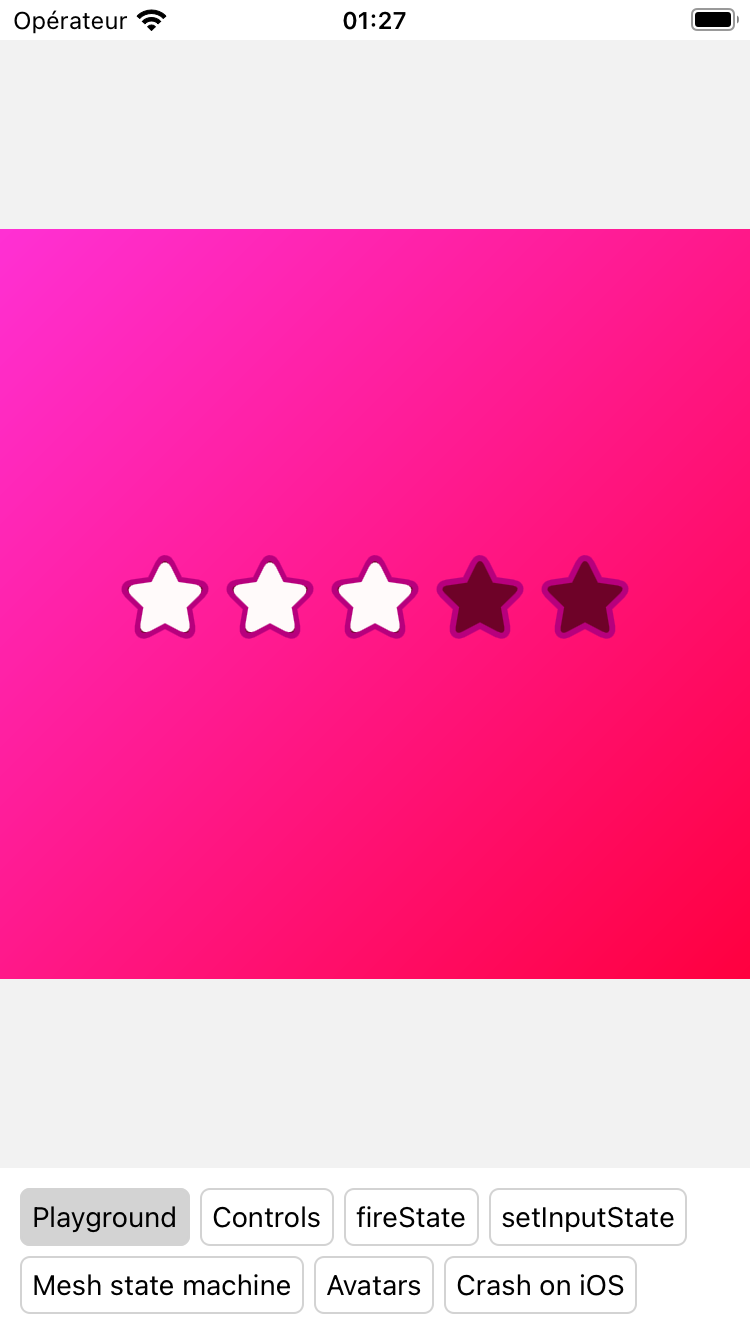
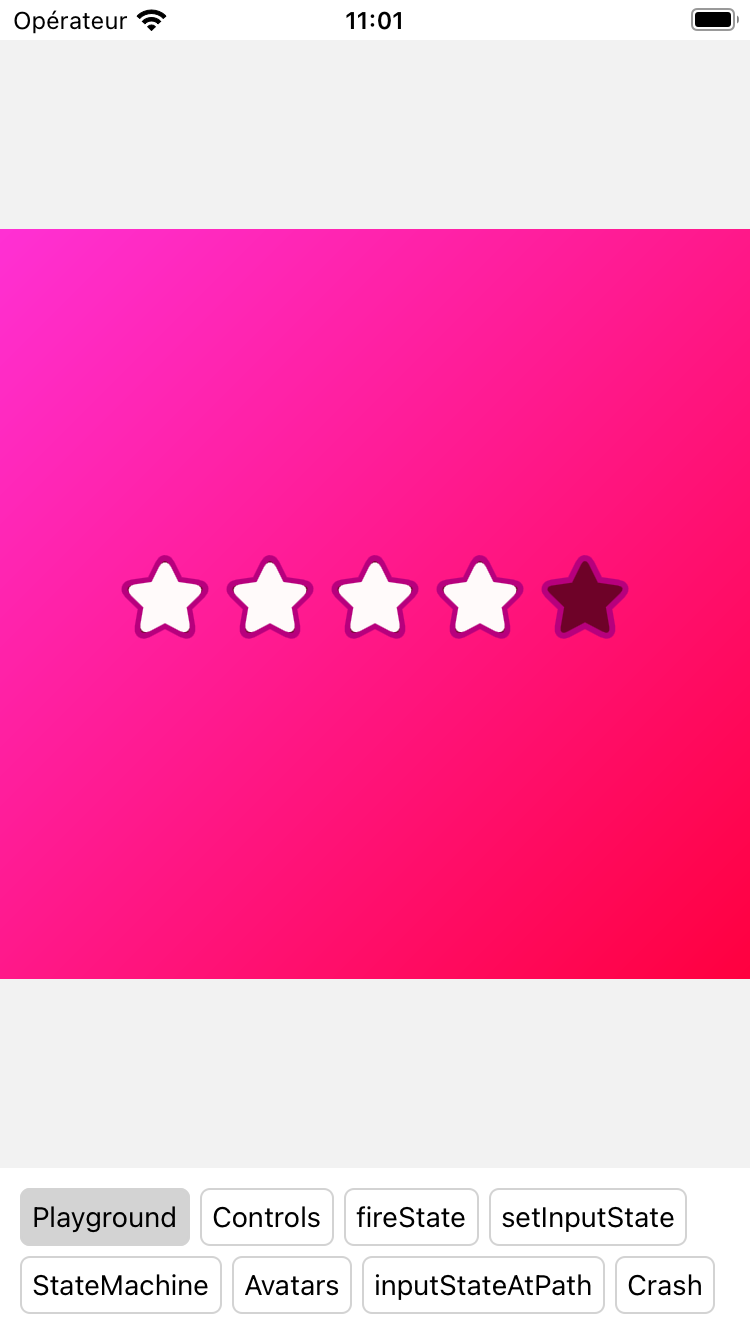
✨ Add setInputStateAtPath example

Changed region(s): [[0.0307, 0.922, 0.9507, 0.9835], [0.5827, 0.3996, 0.7053, 0.4918], [0.46, 0.0, 0.552, 0.0307]]

diff --git a/app/example6.tsx b/app/example6.tsx
@@ -1,95 +1,87 @@
-import * as React from "react";
-import { useRef } from "react";
-
-import { StyleSheet } from "react-native";
-import { TextInput } from "react-native-gesture-handler";
-import {
-  Alignment,
-  Fit,
-  RNRiveError,
-  RNRiveErrorType,
-  RiveRef,
-} from "rive-react-native";
-
 import { RiveAnimation } from "@/components/RiveAnimation";
+import * as React from "react";
+import { View } from "react-native";
+import { Alignment, RiveRef } from "rive-react-native";
 
-const malformedFileUrl =
-  "https://hatrabbits.com/wp-content/uploads/2017/01/random.jpg";
-
-const correctFileUrl =
-  "https://public.rive.app/community/runtime-files/2195-4346-avatar-pack-use-case.riv";
+import NestedInputsAnimation from "@/assets/animations/runtime_nested_inputs.riv";
+import { CustomButton } from "@/components/Button";
 
 export default function Example6() {
-  const riveRef = useRef<RiveRef>(null);
-
-  const handleInputChange = (e: string) => {
-    riveRef.current?.setTextRunValue("name", e);
-  };
+  const riveRef = React.useRef<RiveRef>(null);
+  const [hasOuterCircle, setHasOuterCircle] = React.useState(false);
+  const [hasInnerCircle, setHasInnerCircle] = React.useState(false);
 
   return (
     <>
       <RiveAnimation
-        fit={Fit.Contain}
+        ref={riveRef}
         alignment={Alignment.Center}
-        style={styles.animation}
-        source={malformedFileUrl}
-        // source={correctFileUrl}
-        onError={(riveError: RNRiveError) => {
-          switch (riveError.type) {
-            case RNRiveErrorType.IncorrectRiveFileUrl: {
-              console.log(`${riveError.message}`);
-              return;
-            }
-            case RNRiveErrorType.MalformedFile: {
-              console.log("Malformed File");
-              return;
-            }
-            case RNRiveErrorType.FileNotFound: {
-              console.log("File not found");
-              return;
-            }
-            case RNRiveErrorType.IncorrectArtboardName: {
-              console.log("IncorrectAnimationName");
-              return;
-            }
-            case RNRiveErrorType.UnsupportedRuntimeVersion: {
-              console.log("Runtime version unsupported");
-              return;
-            }
-            case RNRiveErrorType.IncorrectStateMachineName: {
-              console.log(`${riveError.message}`);
-              return;
-            }
-            case RNRiveErrorType.IncorrectStateMachineInput: {
-              console.log(`${riveError.message}`);
-              return;
-            }
-            default:
-              return;
-          }
+        autoplay={true}
+        stateMachineName="MainStateMachine"
+        source={NestedInputsAnimation}
+      />
+      <View
+        style={{
+          flexDirection: "row",
+          flexWrap: "wrap",
+          justifyContent: "center",
+          margin: 10,
+          gap: 10,
         }}
-      />
-      <TextInput
-        onChangeText={handleInputChange}
-        defaultValue="world"
-        style={styles.input}
-      />
+      >
+        <View style={{ gap: 10 }}>
+          <CustomButton
+            text="Outer Circle On"
+            isSelected={hasOuterCircle}
+            onPress={() => {
+              setHasOuterCircle(true);
+              riveRef.current?.setInputStateAtPath(
+                "CircleOuterState",
+                true,
+                "CircleOuter"
+              );
+            }}
+          />
+          <CustomButton
+            text="Outer Circle Off"
+            isSelected={!hasOuterCircle}
+            onPress={() => {
+              setHasOuterCircle(false);
+              riveRef.current?.setInputStateAtPath(
+                "CircleOuterState",
+                false,
+                "CircleOuter"
+              );
+            }}
+          />
+        </View>
+        <View style={{ gap: 10 }}>
+          <CustomButton
+            text="Inner Circle On"
+            isSelected={hasInnerCircle}
+            onPress={() => {
+              setHasInnerCircle(true);
+              riveRef.current?.setInputStateAtPath(
+                "CircleInnerState",
+                true,
+                "CircleOuter/CircleInner"
+              );
+            }}
+          />
+          <CustomButton
+            text="Inner Circle Off"
+            isSelected={!hasInnerCircle}
+            onPress={() => {
+              setHasInnerCircle(false);
+              riveRef.current?.setInputStateAtPath(
+                "CircleInnerState",
+                false,
+                "CircleOuter/CircleInner"
+              );
+            }}
+          />
+        </View>
+      </View>
     </>
   );
 }
-
-const styles = StyleSheet.create({
-  safeAreaViewContainer: {
-    flex: 1,
-  },
-  input: {
-    height: 40,
-    margin: 12,
-    borderWidth: 1,
-    padding: 10,
-  },
-  animation: {
-    width: "100%",
-    height: 100,
-  },
-});

diff --git a/app/example7.tsx b/app/example7.tsx
@@ -1,0 +1,95 @@
+import * as React from "react";
+import { useRef } from "react";
+
+import { StyleSheet } from "react-native";
+import { TextInput } from "react-native-gesture-handler";
+import {
+  Alignment,
+  Fit,
+  RNRiveError,
+  RNRiveErrorType,
+  RiveRef,
+} from "rive-react-native";
+
+import { RiveAnimation } from "@/components/RiveAnimation";
+
+const malformedFileUrl =
+  "https://hatrabbits.com/wp-content/uploads/2017/01/random.jpg";
+
+const correctFileUrl =
+  "https://public.rive.app/community/runtime-files/2195-4346-avatar-pack-use-case.riv";
+
+export default function Example7() {
+  const riveRef = useRef<RiveRef>(null);
+
+  const handleInputChange = (e: string) => {
+    riveRef.current?.setTextRunValue("name", e);
+  };
+
+  return (
+    <>
+      <RiveAnimation
+        fit={Fit.Contain}
+        alignment={Alignment.Center}
+        style={styles.animation}
+        source={malformedFileUrl}
+        // source={correctFileUrl}
+        onError={(riveError: RNRiveError) => {
+          switch (riveError.type) {
+            case RNRiveErrorType.IncorrectRiveFileUrl: {
+              console.log(`${riveError.message}`);
+              return;
+            }
+            case RNRiveErrorType.MalformedFile: {
+              console.log("Malformed File");
+              return;
+            }
+            case RNRiveErrorType.FileNotFound: {
+              console.log("File not found");
+              return;
+            }
+            case RNRiveErrorType.IncorrectArtboardName: {
+              console.log("IncorrectAnimationName");
+              return;
+            }
+            case RNRiveErrorType.UnsupportedRuntimeVersion: {
+              console.log("Runtime version unsupported");
+              return;
+            }
+            case RNRiveErrorType.IncorrectStateMachineName: {
+              console.log(`${riveError.message}`);
+              return;
+            }
+            case RNRiveErrorType.IncorrectStateMachineInput: {
+              console.log(`${riveError.message}`);
+              return;
+            }
+            default:
+              return;
+          }
+        }}
+      />
+      <TextInput
+        onChangeText={handleInputChange}
+        defaultValue="world"
+        style={styles.input}
+      />
+    </>
+  );
+}
+
+const styles = StyleSheet.create({
+  safeAreaViewContainer: {
+    flex: 1,
+  },
+  input: {
+    height: 40,
+    margin: 12,
+    borderWidth: 1,
+    padding: 10,
+  },
+  animation: {
+    width: "100%",
+    height: 100,
+  },
+});

diff --git a/app/_layout.tsx b/app/_layout.tsx
@@ -67,7 +67,7 @@ export default function RootLayout() {
             isSelected={currentRoute === "/example3"}
           />
           <CustomButton
-            text="Mesh state machine"
+            text="StateMachine"
             onPress={() => router.replace("/example4")}
             isSelected={currentRoute === "/example4"}
           />
@@ -77,9 +77,14 @@ export default function RootLayout() {
             isSelected={currentRoute === "/example5"}
           />
           <CustomButton
-            text="Crash on iOS"
+            text="inputStateAtPath"
             onPress={() => router.replace("/example6")}
             isSelected={currentRoute === "/example6"}
+          />
+          <CustomButton
+            text="Crash"
+            onPress={() => router.replace("/example7")}
+            isSelected={currentRoute === "/example7"}
           />
         </View>
       </SafeAreaView>

diff --git a/README.md b/README.md
@@ -12,9 +12,9 @@ Just a little playground to:
 | :-------------------------------------: | :-----------------------------------: | :-------------------------------------: |
 | ![Playground](assets/screenshots/1.png) | ![Controls](assets/screenshots/2.png) | ![Fire State](assets/screenshots/3.png) |
 
-|               Set Input State                |               Mesh State Machine                |               Avatars                |
-| :------------------------------------------: | :---------------------------------------------: | :----------------------------------: |
-| ![Set Input State](assets/screenshots/4.png) | ![Mesh State Machine](assets/screenshots/5.png) | ![Avatars](assets/screenshots/6.png) |
+| Set Input State | Mesh State Machine | Avatars | | InputStateAtPath |
+| :------------------------------------------: | :---------------------------------------------: | :----------------------------------: | | :----------------------------------: |
+| ![Set Input State](assets/screenshots/4.png) | ![Mesh State Machine](assets/screenshots/5.png) | ![Avatars](assets/screenshots/6.png) | | ![InputStateAtPath](assets/screenshots/7.png) |
 
 ## Table of contents
 
